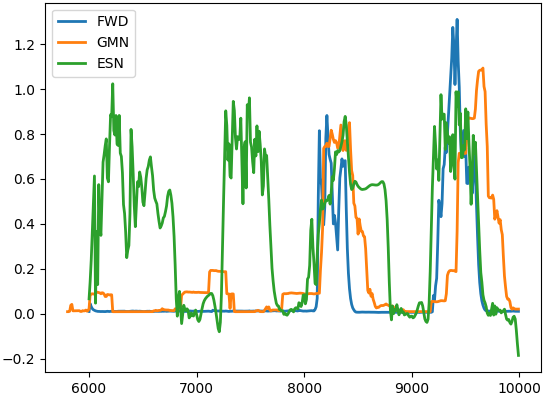
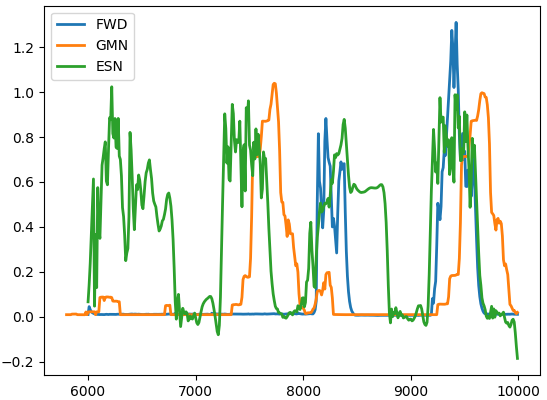
Update

Changed region(s): [[0.0, 0.0, 0.9963, 0.9975]]

diff --git a/README.md b/README.md
@@ -263,7 +263,7 @@ cd ..
 from pandas import read_csv
 import matplotlib.pyplot as plt
 
-gmn = read_csv('GMN/GMN_Fly80_1061_rhoDiff_D4_E7_tau-8.csv').iloc[:420,:]
+gmn = read_csv('GMN/GMN_Fly80_1061_rhoDiff_D5_E7_tau-8.csv').iloc[:420,:]
 esn = read_csv('ESN/ESN_Fly80_1061.csv')
 
 ax = esn.plot('index','FWD',lw=2)   # FWD data
